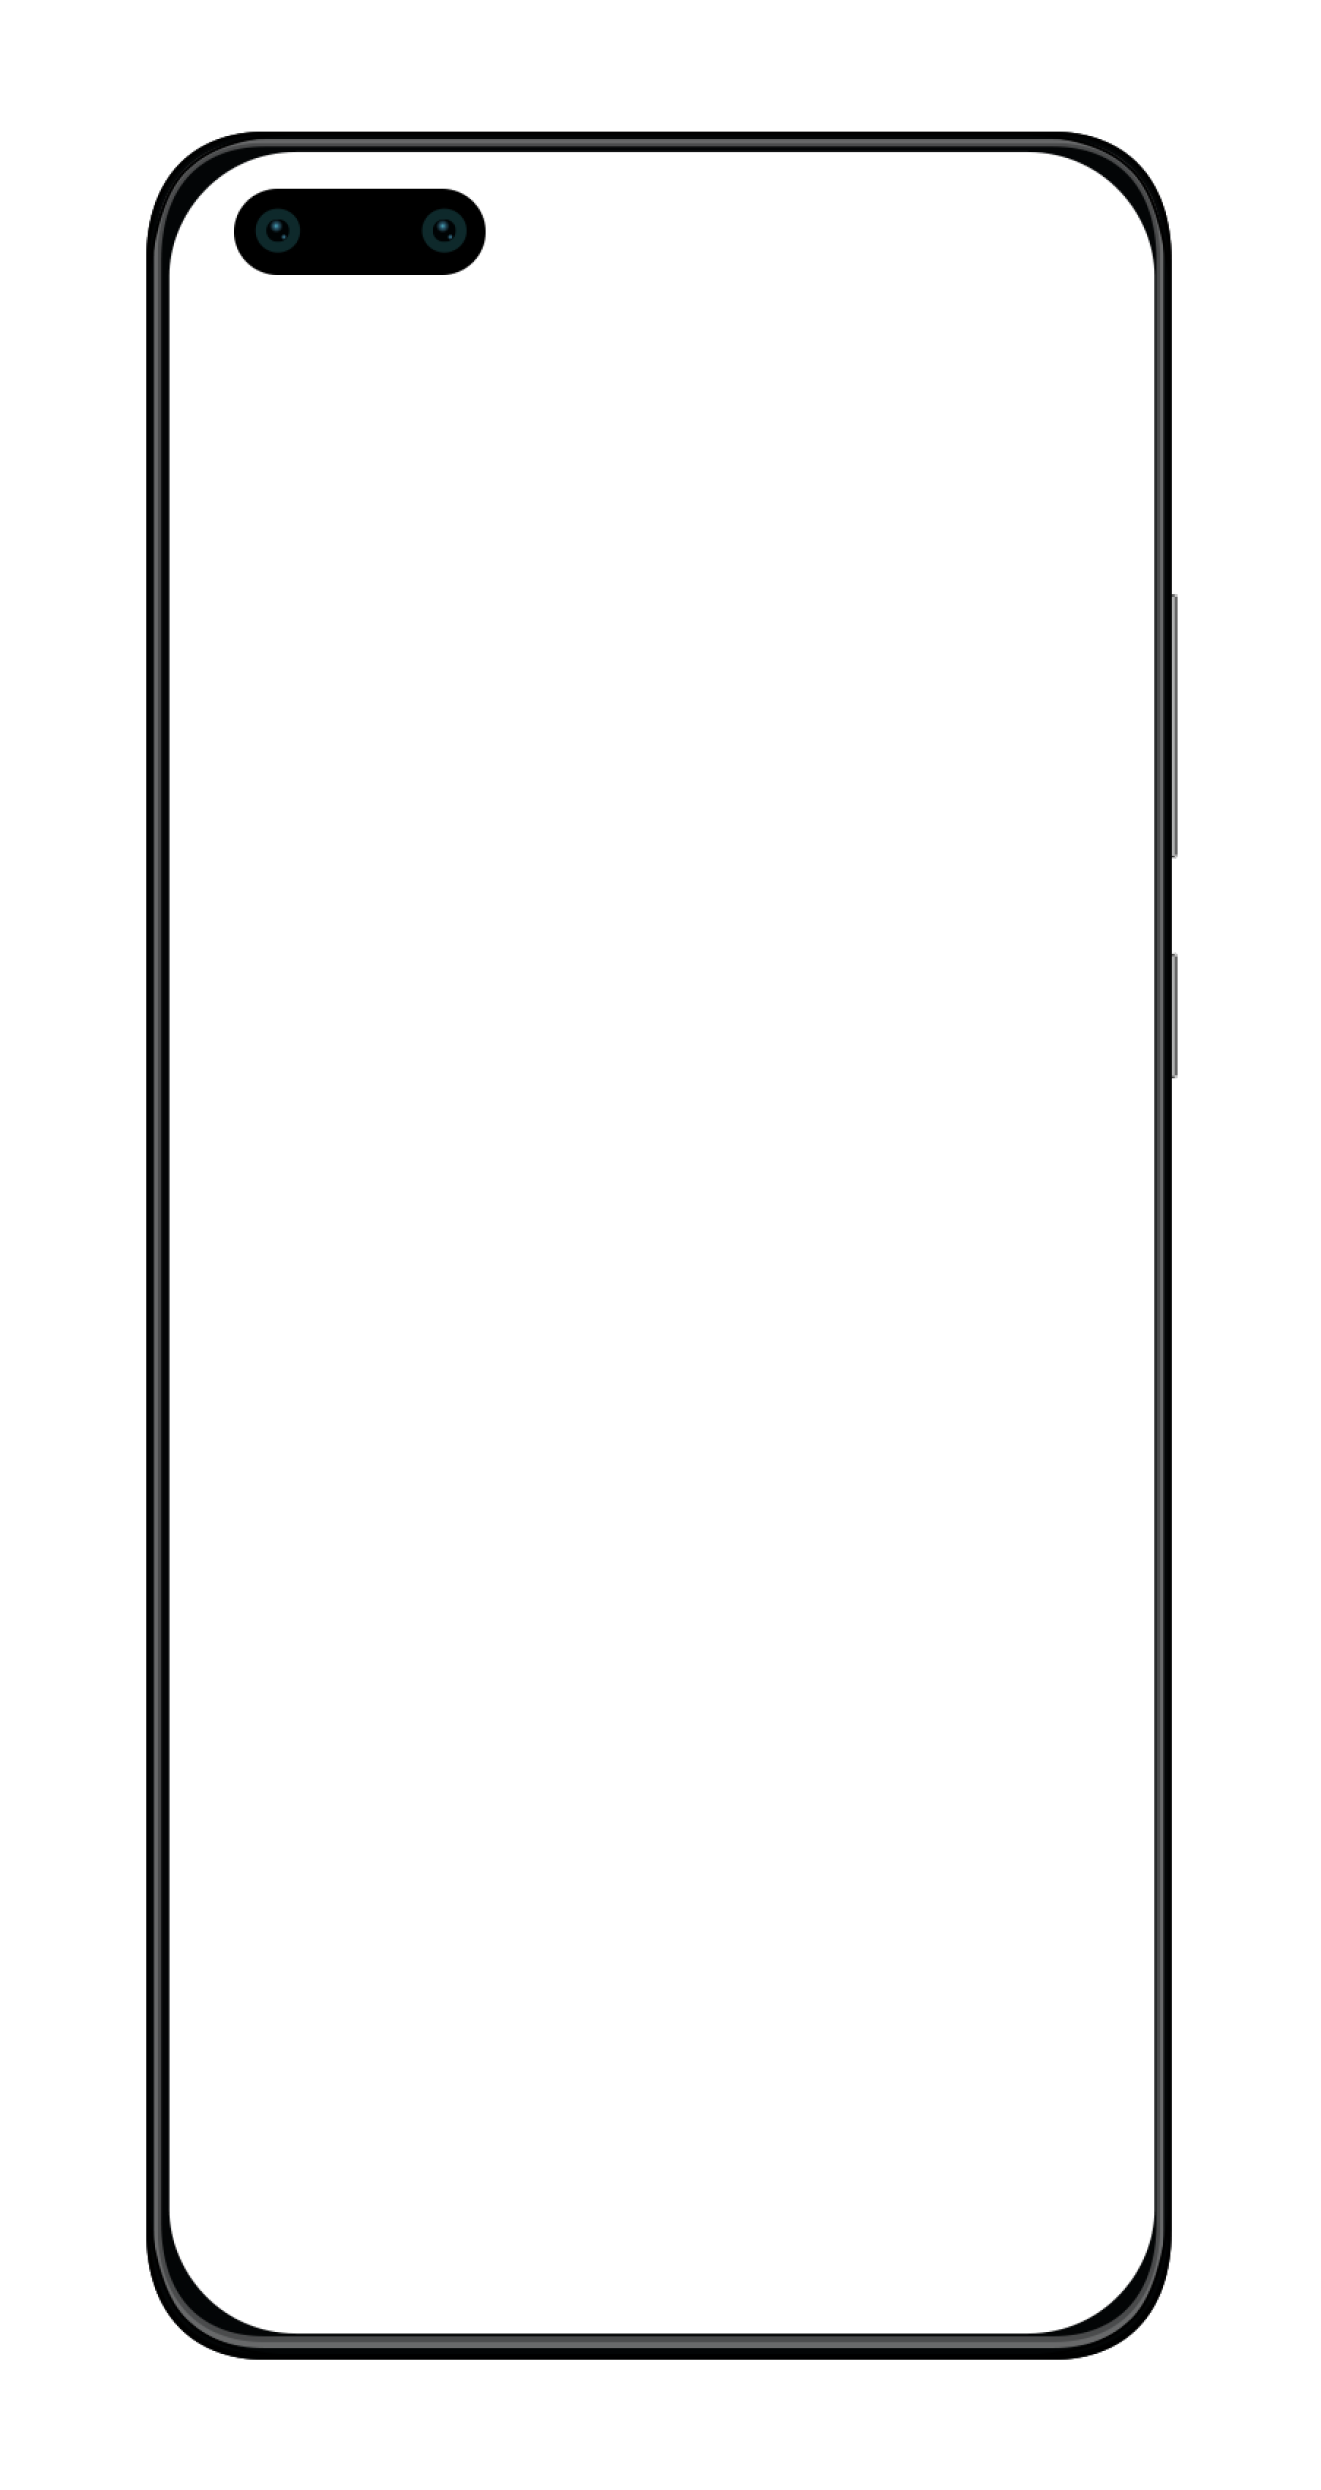
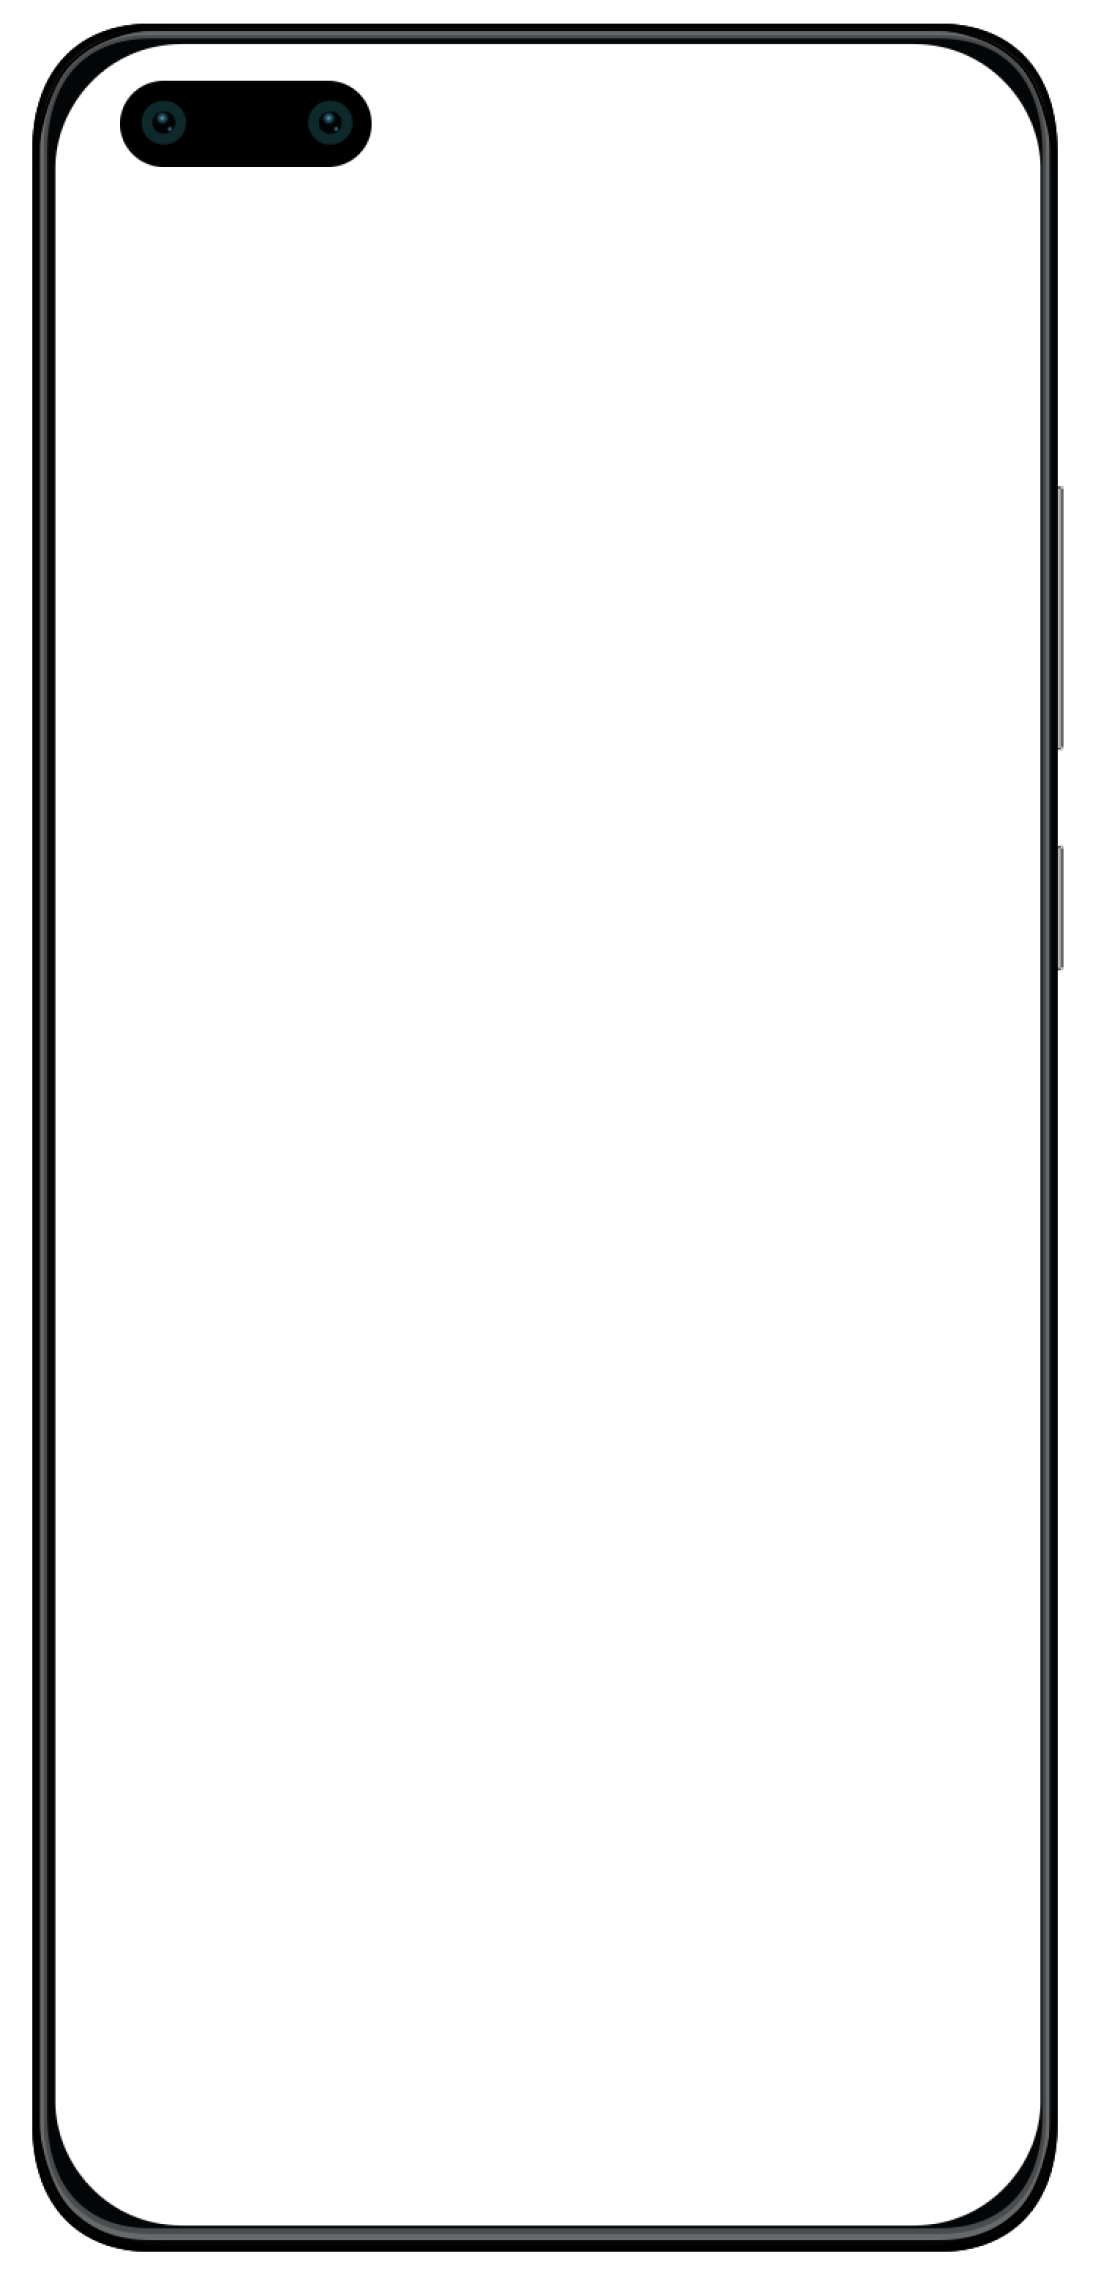
feat: 新增iMacPro设备模型

Changed region(s): [[0.0311, 0.0, 0.9945, 0.9974]]

diff --git a/src/pages/screenshot/_themes/index.js b/src/pages/screenshot/_themes/index.js
@@ -16,6 +16,7 @@ import Iphone14 from "./iphone14";
 import IphoneSe from "./iphoneSe";
 import HuaweiP40ProPlus from "./huaweiP40ProPlus";
 import SamsungGalaxyWatch4 from "./samsungGalaxyWatch4";
+import IMacPro from "./iMacPro";
 
 export function ThemeStyle(theme) {
   switch (theme) {
@@ -93,6 +94,10 @@ export function ThemeStyle(theme) {
       return [
         { name: 'default', title: 'Default', thumail: '/screenshot/theme/samsungGalaxyWatch4/style_default.png' }
       ]
+    case 'iMacPro':
+      return [
+        { name: 'default', title: 'Default', thumail: '/screenshot/theme/iMacPro/style_default.png' }
+      ]
     default:
       return [];
   }
@@ -135,6 +140,8 @@ export default function CoverTheme (props) {
         return <HuaweiP40ProPlus {...props} />
       case 'samsungGalaxyWatch4':
         return <SamsungGalaxyWatch4 {...props} />
+      case 'iMacPro':
+        return <IMacPro {...props} />
       default:
         return <></>;
 		}

diff --git a/src/pages/screenshot/components/_MockupModel/index.js b/src/pages/screenshot/components/_MockupModel/index.js
@@ -129,7 +129,7 @@ export default function MockupModel({ handleSelChange }) {
       name: 'huaweiP40ProPlus',
       title: 'Huawei P40 Pro+',
       type: 'phone',
-      subtitle: '750 x 1334',
+      subtitle: '984 x 2182',
       thumbnail: '/screenshot/mockup/huaweiP40ProPlus.png',
       previews: []
     },
@@ -137,8 +137,16 @@ export default function MockupModel({ handleSelChange }) {
       name: 'samsungGalaxyWatch4',
       title: 'Samsung Galaxy Watch 4',
       type: 'watch',
-      subtitle: '750 x 1334',
+      subtitle: '682 x 682',
       thumbnail: '/screenshot/mockup/samsungGalaxyWatch4.png',
+      previews: []
+    },
+    {
+      name: 'iMacPro',
+      title: 'iMac Pro',
+      type: 'desktop',
+      subtitle: '5120 x 2880',
+      thumbnail: '/screenshot/mockup/iMacPro.png',
       previews: []
     }
   ]

diff --git a/src/pages/screenshot/style.module.scss b/src/pages/screenshot/style.module.scss
@@ -252,17 +252,22 @@
   }
 
   &.huaweiP40ProPlus {
-    --aspect-ratio: 1321/2490;
+    --aspect-ratio: 1094/2278;
     --shadow-inset: 5% 11% 6%;
     --shadow-radius: 5em;
-    --drop-padding: 11.5% 12.2% 12%;
-    --drop-radius: 0.9em;
+    --drop-padding: 3% 4.4% 4% 4.8%;
+    --drop-radius: 1.2em;
   }
 
   &.samsungGalaxyWatch4 {
     --aspect-ratio: 1186/1186;
     --drop-padding: 20.8%;
     --drop-radius: 50%;
+  }
+
+  &.iMacPro {
+    --aspect-ratio: 4096/3411;
+    --drop-padding: 5.2% 4% 27%;
   }
 }
 .devices {

diff --git a/src/pages/screenshot/components/_MockupTab/index.js b/src/pages/screenshot/components/_MockupTab/index.js
@@ -40,7 +40,7 @@ export default function MockupTab() {
           <BorderRadius />
         </Box>
       }
-      {["screenshot", "browser", "iphone15", "pixel7Pro", "ipadPro13"].includes(config.theme) && 
+      {["screenshot", "browser", "iphone15", "pixel7Pro", "ipadPro13", 'ipadAir', 'iphone14', 'iphoneSe', "huaweiP40ProPlus"].includes(config.theme) && 
       <Box className={styles.pannelCtrl}>
         <Typography className={styles.setTit} variant="h3">阴影</Typography>
         <BoxShadow />

diff --git a/src/pages/screenshot/_themes/iMacPro.js b/src/pages/screenshot/_themes/iMacPro.js
@@ -1,0 +1,13 @@
+import UploadCard from "../components/_UploadCard";
+import styles from "./style.module.scss";
+import clsx from "clsx";
+
+export default function IMacPro (props) {
+  const { config } = {...props}
+  return (
+    <div className={clsx(styles.theme, styles.iMacPro)} style={{ position: 'relative' }}>
+      <img crossOrigin="anonymous" className={styles.device} src="/screenshot/theme/iMacPro/default.png" />
+      <UploadCard {...props} />
+    </div>
+  )
+}
